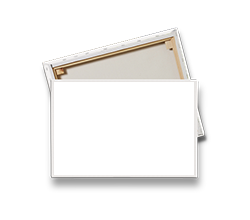
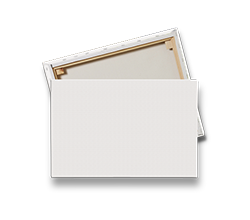
V1.5

Changed region(s): [[0.196, 0.3545, 0.784, 0.8182]]

diff --git a/index.html b/index.html
@@ -54,22 +54,32 @@
             <div class="preview-place">
                 <img src="round.png" class="round"/>
                 <div class="product">
-                    <img src="mug.png"/>
+                    <div>
+                        <div><img src="http://i.ytimg.com/vi/yz_j7nVCJJ0/hqdefault.jpg" class="mug"/></div>
+                        <img src="mug.png" id="mug"/>
+                    </div>
                     <h2>Mug Simple</h2>
-                    <p>à partir de <span>9,99€</span></p>
-                    <a href="" class="actionCtaFlat">Je crée</a>
+                    <p>à partir de <span>9,95€</span></p>
+                    <a href="http://www.photobox.fr/studio/mug-simple" class="actionCtaFlat">Je crée</a>
                 </div>
                 <div class="product">
-                    <img src="canvas.png"/>
+                    <div>
+                        <div><img src="http://i.ytimg.com/vi/yz_j7nVCJJ0/hqdefault.jpg" class="canvas"/></div>
+                        <img src="canvas.png" id="canvas"/>
+                    </div>
+                    
                     <h2>Toile Photo 20x30cm</h2>
                     <p>à partir de <span>20,99€</span></p>
-                    <a href="" class="actionCtaFlat">Je crée</a>
+                    <a href="http://www.photobox.fr/studio/toile-photo-classique-20x30" class="actionCtaFlat">Je crée</a>
                 </div>
-                <div class="product">
-                    <img src="case.png"/>
+                <div class="product">     
+                    <div>
+                        <div><img src="http://i.ytimg.com/vi/yz_j7nVCJJ0/hqdefault.jpg" class="case"/></div>
+                        <img src="case.png" id="case"/>
+                    </div>
                     <h2>Coque iPhone 6</h2>
-                    <p>à partir de <span>12,99€</span></p>
-                    <a href="" class="actionCtaFlat">Je crée</a>
+                    <p>à partir de <span>19,95€</span></p>
+                    <a href="http://www.photobox.fr/studio/22892" class="actionCtaFlat">Je crée</a>
                 </div>
             
                 <div class="alert">

diff --git a/css/main.css b/css/main.css
@@ -94,7 +94,7 @@ textarea {
     background: white;
     padding-top: 20px;
     text-align: left;
-    max-width: 60%;
+    max-width: 50%;
     max-height: 50%;
     margin: 40px auto;
     position: relative;
@@ -129,7 +129,39 @@ textarea {
     width: 33%;
     margin-top: 40px;
     text-align: center;
+    position:relative;
 }
+.product div{
+    height: 220px;
+}
+.product div div img{
+    z-index:10;
+    position:absolute;
+    width:75px;
+    top:100px;
+    left:110px;
+}
+.product div div img.canvas{
+    top: 110px;
+    left: 100px;
+    width: 130px;
+}
+
+.product div div img.case{
+    left: 110px;
+    top: 95px;
+    width: 108px;
+}
+
+
+#mug, #canvas, #case{
+    position:absolute;
+    top:30px;
+    left:40px;
+    z-index:5;
+}
+
+
 .product h2, .product p{
     margin: 0;
 }
@@ -164,6 +196,8 @@ textarea {
 .go-to-site a{
     color: #292929;
 }
+
+
 /**
  * Fade-zoom animation for first dialog
  */
